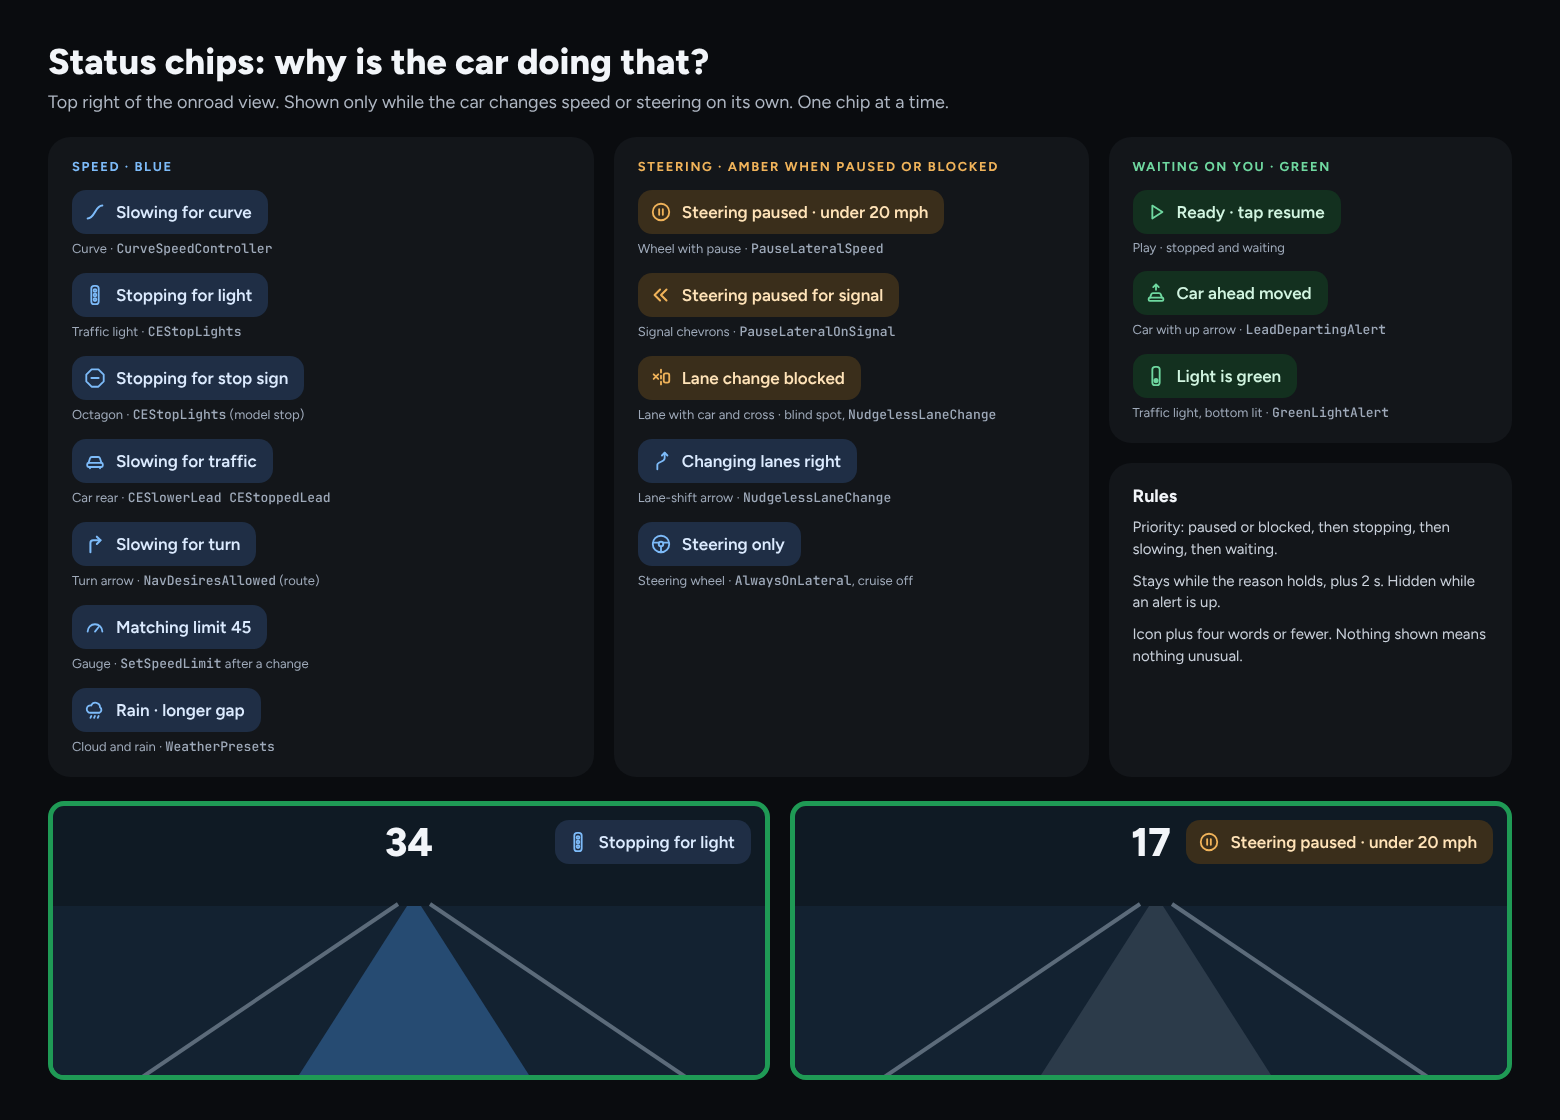
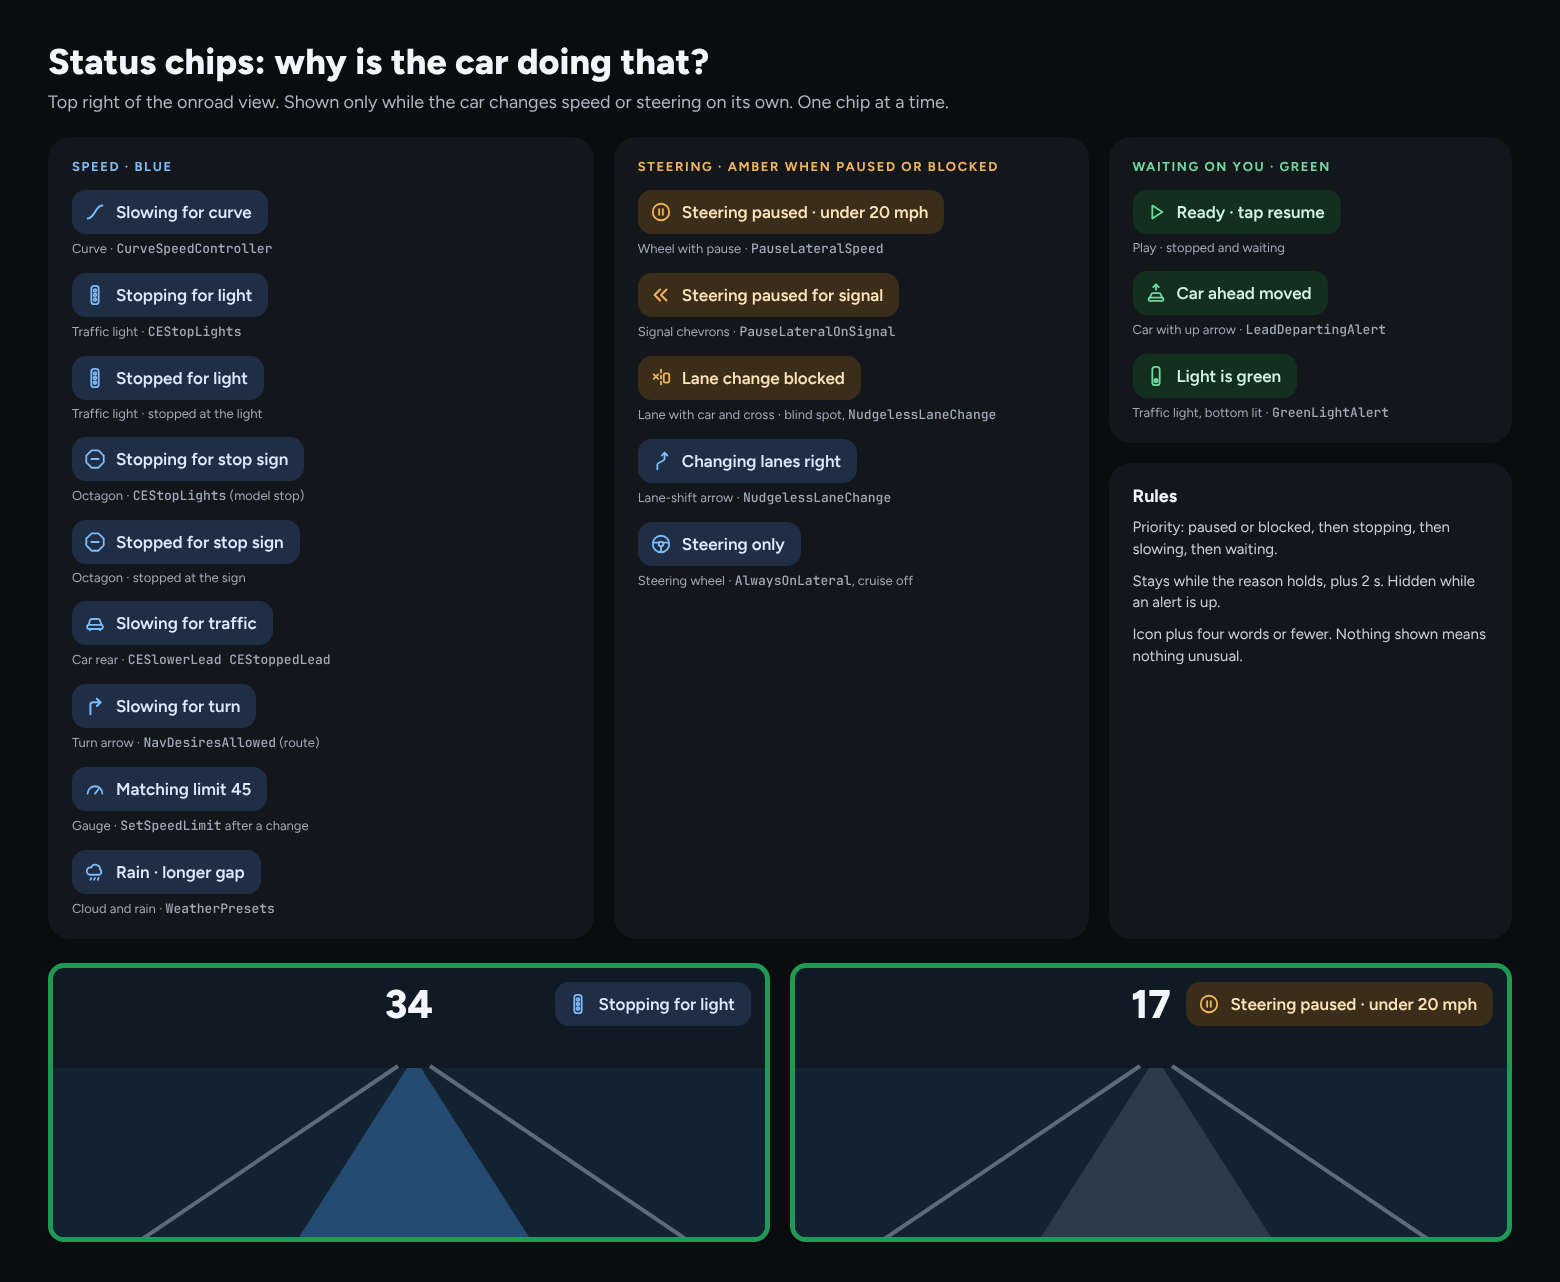
Status chips mock: Stopped for light and Stopped for stop sign
Adds the two chips the build shows once the car is stopped, under their
Stopping versions, and makes the page taller so the onroad previews keep
their size.

Claude-Session: https://claude.ai/code/session_01R4pPc2hcx88Dbjjec1p8WC

diff --git a/selfdrive/ui/tandem/design/statuschips.html b/selfdrive/ui/tandem/design/statuschips.html
@@ -14,7 +14,7 @@ body{margin:0}
 a{color:#7DBBF9}a:hover{color:#A9D3FB}
 </style>
 
-<div style="width: 1560px; height: 1120px; box-sizing: border-box; background: #0A0C0F; color: #F2F5F9; font-family: Figtree, system-ui, sans-serif; padding: 40px 48px; display: flex; flex-direction: column; gap: 24px;">
+<div style="width: 1560px; height: 1282px; box-sizing: border-box; background: #0A0C0F; color: #F2F5F9; font-family: Figtree, system-ui, sans-serif; padding: 40px 48px; display: flex; flex-direction: column; gap: 24px;">
   <div style="display: flex; flex-direction: column; gap: 8px;">
     <h1 style="margin: 0; font-size: 36px; font-weight: 800;">Status chips: why is the car doing that?</h1>
     <span style="font-size: 18px; color: #AEB6C2;">Top right of the onroad view. Shown only while the car changes speed or steering on its own. One chip at a time.</span>
@@ -31,8 +31,16 @@ a{color:#7DBBF9}a:hover{color:#A9D3FB}
         <span style="font-size: 13px; color: #9FAABA;">Traffic light · <span style="font-family: 'JetBrains Mono', monospace;">CEStopLights</span></span>
       </div>
       <div style="display: flex; flex-direction: column; gap: 6px;">
+        <div style="align-self: flex-start; display: flex; align-items: center; gap: 10px; height: 44px; padding: 0 16px 0 12px; border-radius: 14px; background: #1F2E45; color: #DCEBFF; font-size: 17px; font-weight: 600;"><svg width="22" height="22" viewBox="0 0 24 24" fill="none" stroke="#7DBBF9" stroke-width="2" stroke-linecap="round" stroke-linejoin="round" aria-hidden="true"><rect x="8" y="2" width="8" height="20" rx="3"></rect><circle cx="12" cy="7" r="1.5"></circle><circle cx="12" cy="12" r="1.5"></circle><circle cx="12" cy="17" r="1.5"></circle></svg>Stopped for light</div>
+        <span style="font-size: 13px; color: #9FAABA;">Traffic light · stopped at the light</span>
+      </div>
+      <div style="display: flex; flex-direction: column; gap: 6px;">
         <div style="align-self: flex-start; display: flex; align-items: center; gap: 10px; height: 44px; padding: 0 16px 0 12px; border-radius: 14px; background: #1F2E45; color: #DCEBFF; font-size: 17px; font-weight: 600;"><svg width="22" height="22" viewBox="0 0 24 24" fill="none" stroke="#7DBBF9" stroke-width="2" stroke-linecap="round" stroke-linejoin="round" aria-hidden="true"><path d="M8.3 2.5h7.4l5.8 5.8v7.4l-5.8 5.8H8.3l-5.8-5.8V8.3z"></path><path d="M8 12h8"></path></svg>Stopping for stop sign</div>
         <span style="font-size: 13px; color: #9FAABA;">Octagon · <span style="font-family: 'JetBrains Mono', monospace;">CEStopLights</span> (model stop)</span>
+      </div>
+      <div style="display: flex; flex-direction: column; gap: 6px;">
+        <div style="align-self: flex-start; display: flex; align-items: center; gap: 10px; height: 44px; padding: 0 16px 0 12px; border-radius: 14px; background: #1F2E45; color: #DCEBFF; font-size: 17px; font-weight: 600;"><svg width="22" height="22" viewBox="0 0 24 24" fill="none" stroke="#7DBBF9" stroke-width="2" stroke-linecap="round" stroke-linejoin="round" aria-hidden="true"><path d="M8.3 2.5h7.4l5.8 5.8v7.4l-5.8 5.8H8.3l-5.8-5.8V8.3z"></path><path d="M8 12h8"></path></svg>Stopped for stop sign</div>
+        <span style="font-size: 13px; color: #9FAABA;">Octagon · stopped at the sign</span>
       </div>
       <div style="display: flex; flex-direction: column; gap: 6px;">
         <div style="align-self: flex-start; display: flex; align-items: center; gap: 10px; height: 44px; padding: 0 16px 0 12px; border-radius: 14px; background: #1F2E45; color: #DCEBFF; font-size: 17px; font-weight: 600;"><svg width="22" height="22" viewBox="0 0 24 24" fill="none" stroke="#7DBBF9" stroke-width="2" stroke-linecap="round" stroke-linejoin="round" aria-hidden="true"><path d="M5 14l1.6-5A2 2 0 0 1 8.5 7.6h7a2 2 0 0 1 1.9 1.4L19 14"></path><rect x="3.5" y="14" width="17" height="4.5" rx="1.5"></rect><path d="M6.5 18.5v1.5M17.5 18.5v1.5"></path></svg>Slowing for traffic</div>
